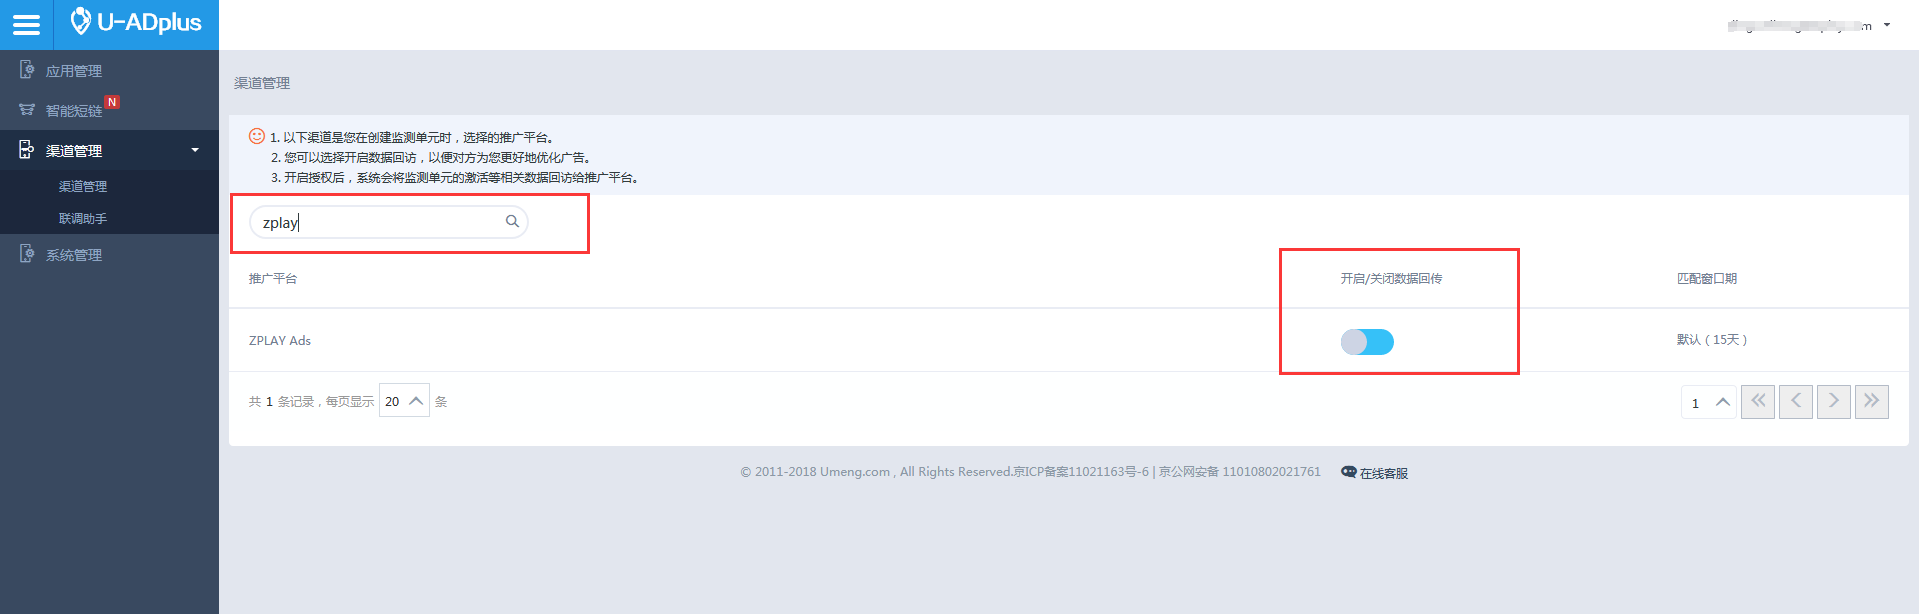
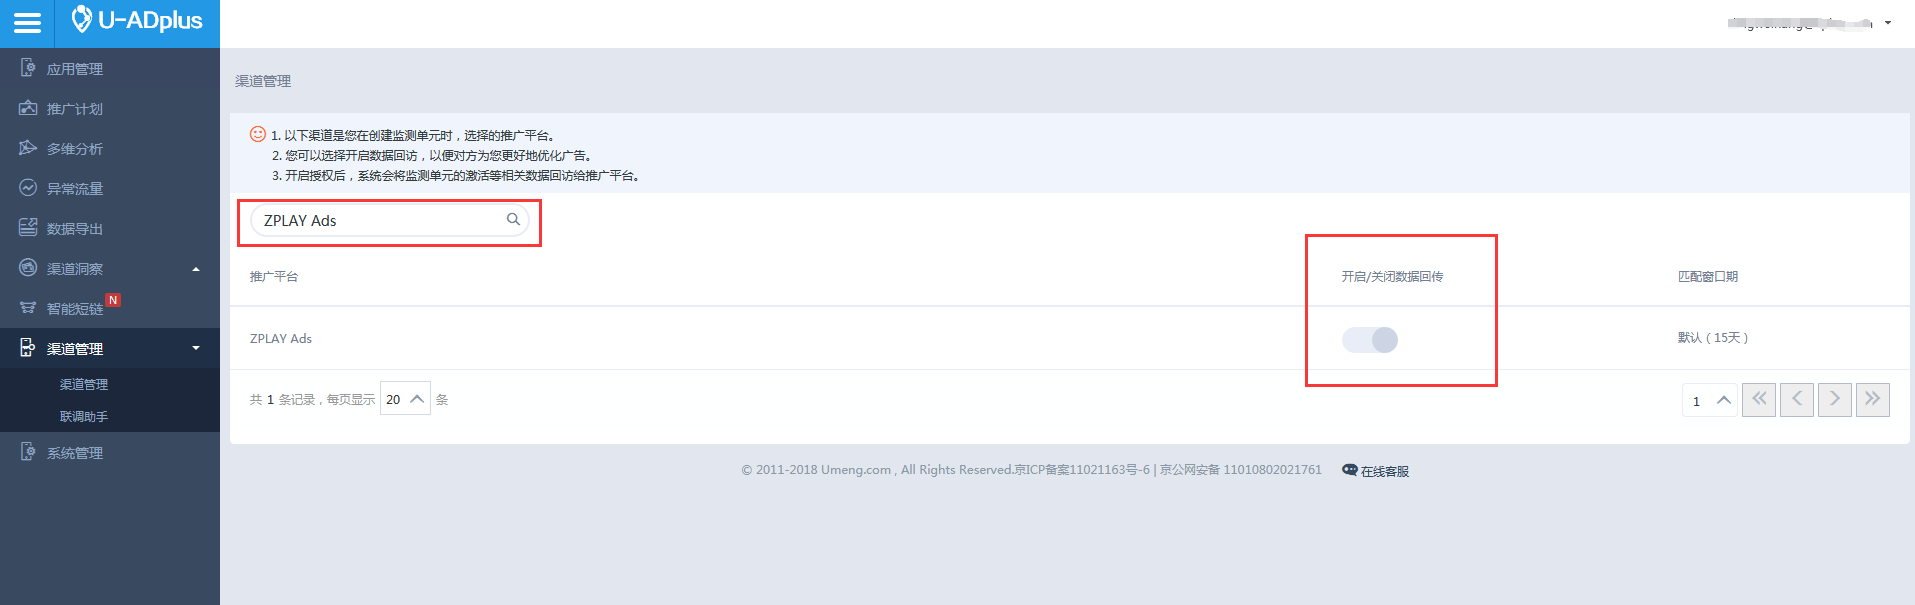
update

diff --git a/Tracking/Umeng Tracking Help Document.md b/Tracking/Umeng Tracking Help Document.md
@@ -1,29 +1,33 @@
-#### 1. Choose the app you are going to track in 应用管理
+#### 1. Choose the app you are going to track in “应用管理”
 ![image](imgs/umeng_1_choose_app.png)
 
-#### 2. Select“添加推广计划”
+#### 2. Select “添加推广计划”
 ![image](imgs/umeng_2_add_promoted_plan.png)
 
-#### 3. Fill in basic information according to your demands, and the click 下一步
+#### 3. Fill in basic information according to your demands, and the click “下一步”
 ![image](imgs/umeng_3_basic_information.png)
 
 #### 4. Choose “ZPLAY Ads” in “推广渠道”，and fill in other blanks according to your demands
 ![image](imgs/umeng_4_choose_promoted_channel.png)
 
-#### 5. Click 确认 to save your settings
+#### 5. Click “确认” to save your settings
 ![image](imgs/umeng_5_filling_completed.png)
 
-#### 6. After saving, copy 点击监测链接 and 曝光检测代码 in this page
+#### 6. After saving, copy “点击监测链接” and “曝光检测代码” in this page
 ![image](imgs/umeng_6_copy_link.png)
 
-#### 7. If you need to check tracking url afterwards, you can select the app in the 应用管理 page, then you will see the form of promotion plan you have created. Click "监测" button in the right side of the form, and you will see the tracking url of your promotion plan again
+#### 7. If you need to check tracking url afterwards, you can select the app in the “应用管理” page, then you will see the form of promotion plan you have created. Click "监测" button in the right side of the form, and you will see the tracking url of your promotion plan again
 ![image](imgs/umeng_6.2_check_again.png)
 
 #### 8. Click “渠道管理” in “渠道管理”
 ![image](imgs/umeng_7_channel_management.png)
 
-#### 9. Fill in "zplay" in the search box and swithch on the data transmission button. Only when this button is on, ZPLAY Ads can receive install information of your app, and then can settle accounts with you correctly
+#### 9. Fill in "ZPLAY Ads" in the search box and click the data transmission button. 
 ![image](imgs/umeng_8_choose_zplay.png)
 
-#### 10. In the create campaign or edit campaign page of ZPLAY Ads, fill the View-Through Tracking URL with 曝光检测代码 which is copied in step 6. And fill the Tracking URL with 点击监测链接 which is copied in step 6
+#### 10. Click “我同意协议，确定授权” to authorize data to ZPLAY Ads. Only after authorization, ZPLAY Ads can receive install information of your app, and then can settle accounts with you correctly
+![image](imgs/umeng_10_agreement.png)
+
+
+#### 10. In the create campaign or edit campaign page of ZPLAY Ads, fill the View-Through Tracking URL with “曝光检测代码” which is copied in step 6. And fill the Tracking URL with “点击监测链接” which is copied in step 6
 ![image](imgs/umeng_9_tracking_en.png)

diff --git a/Tracking/友盟监测链接获取指南.md b/Tracking/友盟监测链接获取指南.md
@@ -1,29 +1,32 @@
-#### 1. 在应用管理中选择您需要监测的应用
+#### 1. 在“应用管理”中选择您需要监测的应用
 ![image](imgs/umeng_1_choose_app.png)
 
 #### 2. 选择“添加推广计划”
 ![image](imgs/umeng_2_add_promoted_plan.png)
 
-#### 3. 根据您的需求，填写推广计划的基本信息，然后点击下一步
+#### 3. 根据您的需求，填写推广计划的基本信息，然后点击“下一步”
 ![image](imgs/umeng_3_basic_information.png)
 
 #### 4. 在“推广渠道”字段，选择“ZPLAY Ads”，并根据需求填写其他字段
 ![image](imgs/umeng_4_choose_promoted_channel.png)
 
-#### 5. 填写完成后，点击确认，保存您的设置
+#### 5. 填写完成后，点击“确认”，保存您的设置
 ![image](imgs/umeng_5_filling_completed.png)
 
 #### 6. 保存后，在该页面复制生成的点击监测链接和曝光检测代码
 ![image](imgs/umeng_6_copy_link.png)
 
-#### 7. 如果您随后还需要再次查看监测链接信息，可以在应用管理中选择您需要监测的应用后，在下方表格中点击您所创建的计划右侧的“监测”按钮，便可以查看该项推广计划的监测链接
+#### 7. 如果您随后还需要再次查看监测链接信息，可以在“应用管理”中选择您需要监测的应用后，在下方表格中点击您所创建的计划右侧的“监测”按钮，便可以查看该项推广计划的监测链接
 ![image](imgs/umeng_6.2_check_again.png)
 
 #### 8. 点击“渠道管理”中的“渠道管理”
 ![image](imgs/umeng_7_channel_management.png)
 
-#### 9. 在输入框中输入zplay，并将对ZLPAY Ads的开启/关闭数据回传按钮打开，该按钮打开后，ZPLAY Ads才可以收到您应用的激活信息，才可以正确与您结算
+#### 9. 在输入框中输入ZLPAY Ads，并点击对ZLPAY Ads的“开启/关闭数据回传”按钮
 ![image](imgs/umeng_8_choose_zplay.png)
 
-#### 10. 在您创建广告或者编辑广告时将获取到的点击监测链接填写到ZPLAY Ads的监测地址框内，将获取到的曝光监测代码填写到ZPALY Ads的展示监测地址框内
+#### 10. 点击“我同意协议，确定授权”以将数据授权给ZPLAY Ads。授权后，ZPLAY Ads才可以收到您应用的激活信息，才可以正确与您结算
+![image](imgs/umeng_10_agreement.png)
+
+#### 11. 在您创建广告或者编辑广告时将获取到的点击监测链接填写到ZPLAY Ads的监测地址框内，将获取到的曝光监测代码填写到ZPALY Ads的展示监测地址框内
 ![image](imgs/umeng_9_tracking.png)
